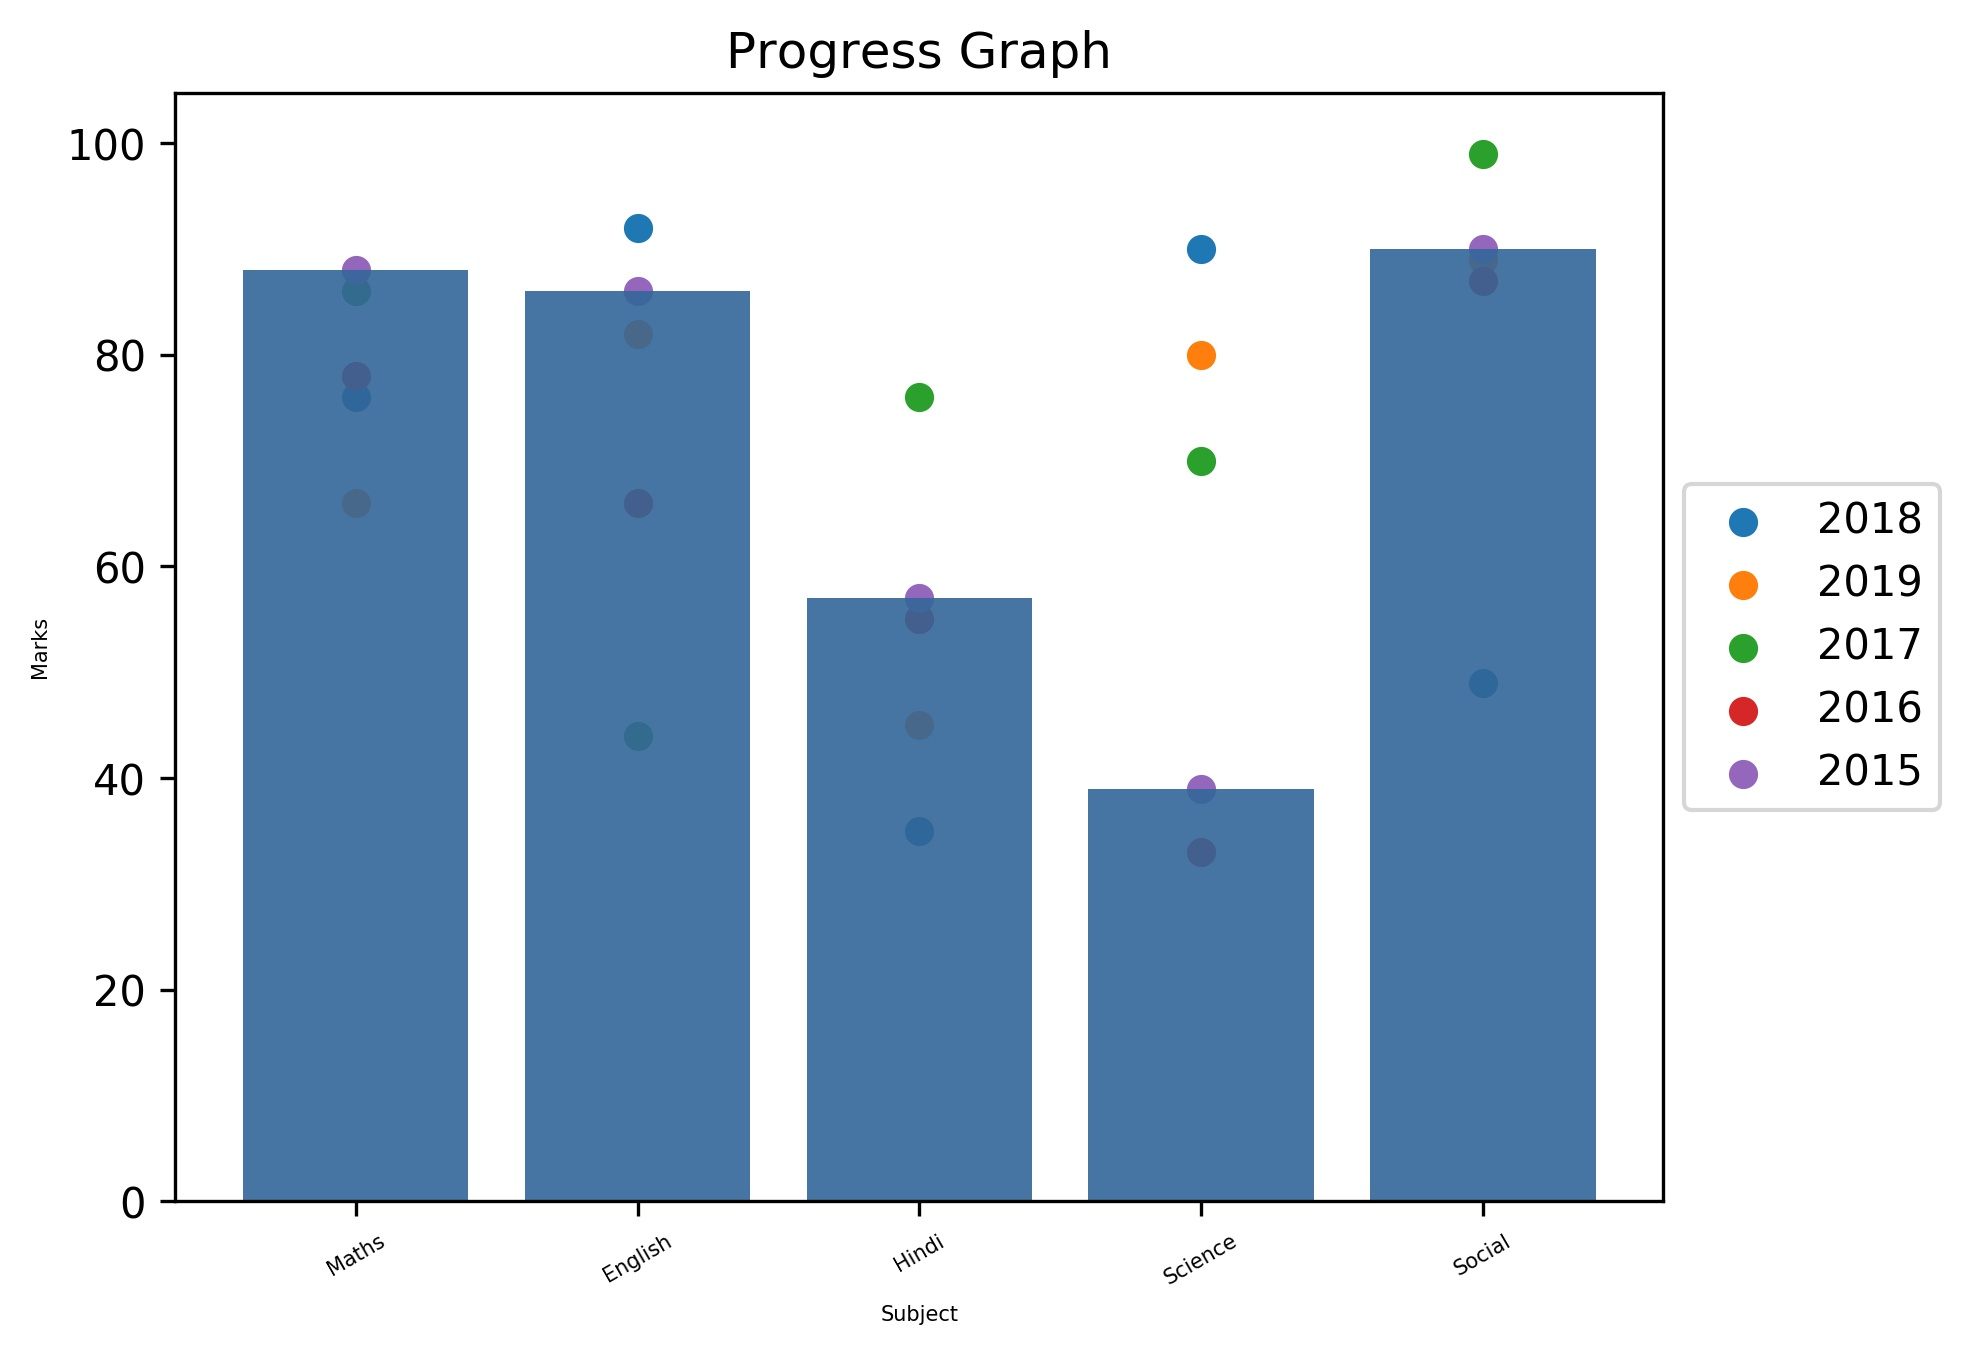
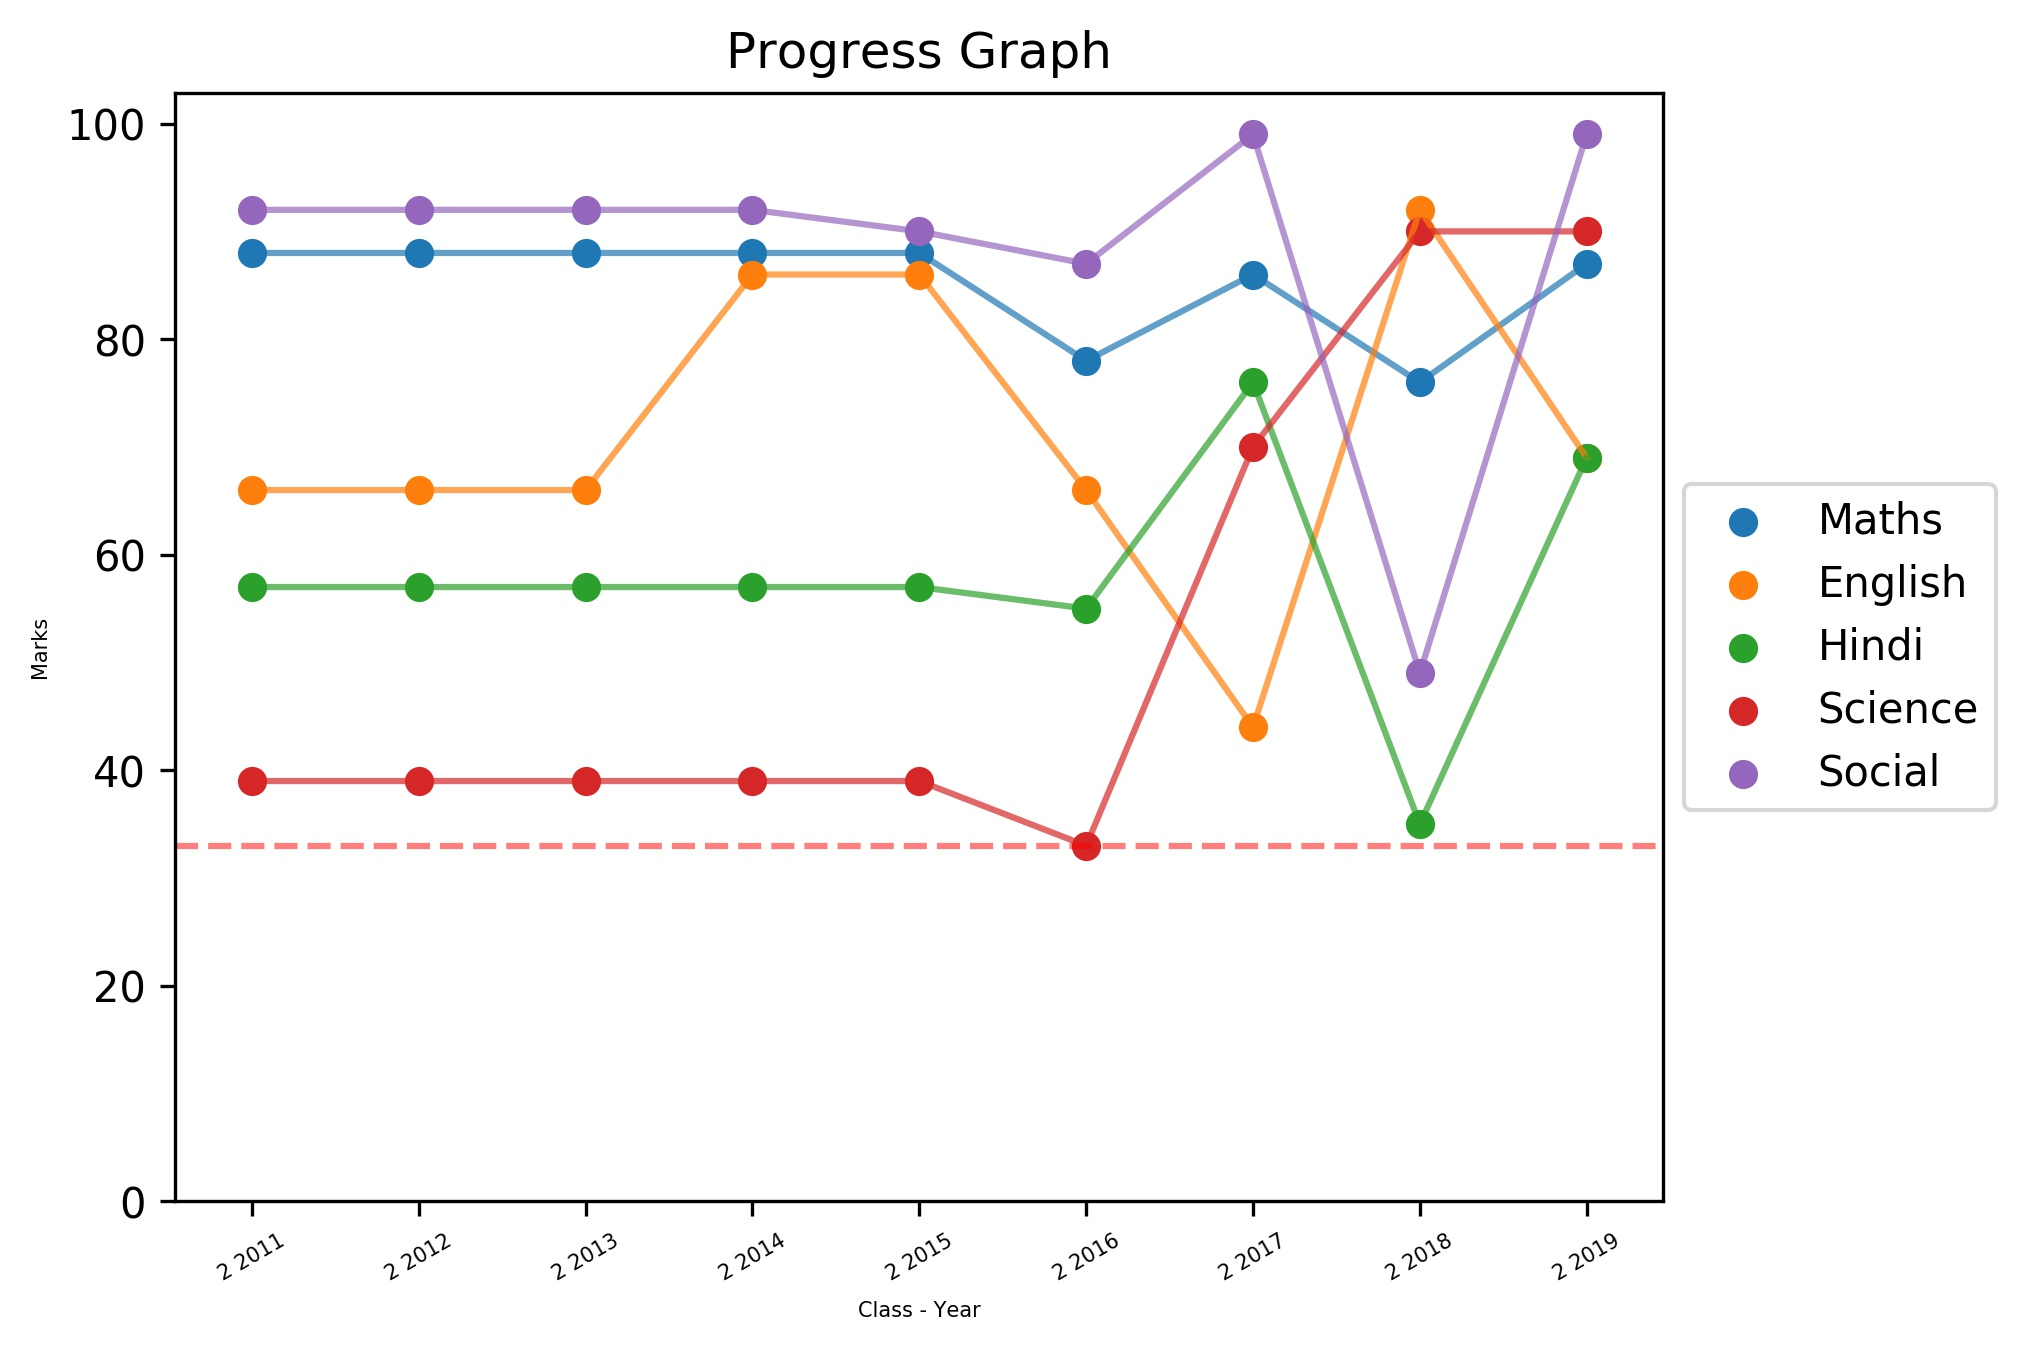
Improvement in graphs as a time series

diff --git a/database/views.py b/database/views.py
@@ -312,22 +312,25 @@ class ReportCardApi(APIView):
                     plt1 = yearlyGraph(marks)
                     
                     plt1.savefig('media/'+str(params['student_id'])+str(params['year'])+'.jpg',transparent = True,dpi = 300) 
-                    
+                    plt1.clf()
                     #progress Graph saving
-                    reportCard1 = ReportCard.objects.filter(student = student)
-                    
-                    data = []
+                    reportCard1 = ReportCard.objects.filter(student = student).order_by('year')
+                    data = [[],[],[],[],[]]
                     year = []
+                    print('here2')
                     for i in reportCard1:
-                        year.append(i.year)
-                        temp = []
-                        temp.extend([i.marks_in_maths,i.marks_in_english,i.marks_in_hindi,i.marks_in_science,i.marks_in_social])
-                        data.append(temp)
+                        year.append(str(i.student.standard) + ' ' + str(i.year))
+                        data[0].append(i.marks_in_maths)
+                        data[1].append(i.marks_in_english)
+                        data[2].append(i.marks_in_hindi)
+                        data[3].append(i.marks_in_science)
+                        data[4].append(i.marks_in_social)
+                    
                     plt2, art = progressGraph(data,year)
                     print('bf')
                     plt2.savefig('media/'+str(params['student_id'])+'.jpg',transparent = True,dpi = 300,additional_artists=art,
         bbox_inches="tight") 
-                    print('here')
+                    
                     response_data = reportCard.json()
                     return HttpResponse(json.dumps(response_data), content_type="application/json")
                 
@@ -370,17 +373,22 @@ class ReportCardApi(APIView):
                 marks = [reportCard.marks_in_maths, reportCard.marks_in_english, reportCard.marks_in_hindi, reportCard.marks_in_science, reportCard.marks_in_social]
                 plt1 = yearlyGraph(marks)
                 plt1.savefig('media/'+student_id+year+'.jpg',transparent = True,dpi = 300)
-
+                plt.clf()
                 #progress Graph saving
                 reportCard1 = ReportCard.objects.filter(student = student)
-            
-                data = []
+                
+                data = [[],[],[],[],[]]
                 year = []
+
                 for i in reportCard1:
-                    year.append(i.year)
-                    temp = []
-                    temp.extend([i.marks_in_maths,i.marks_in_english,i.marks_in_hindi,i.marks_in_science,i.marks_in_social])
-                    data.append(temp)
+                    year.append(i.student.standard + ' ' + i.year)
+                    data[0].append(i.marks_in_maths)
+                    data[1].append(i.marks_in_english)
+                    data[2].append(i.marks_in_hindi)
+                    data[3].append(i.marks_in_science)
+                    data[4].append(i.marks_in_social)
+
+                
                 plt2, art = progressGraph(data,year)
                 
                 plt2.savefig('media/'+str(params['student_id'])+'.jpg',transparent = True,dpi = 300,additional_artists=art,

diff --git a/database/graphs.py b/database/graphs.py
@@ -15,15 +15,35 @@ def yearlyGraph(marks):
 def progressGraph(marks, year):
     
     subject = ['Maths','English', 'Hindi', 'Science','Social']
-    index = np.arange(len(subject))
+    index = np.arange(len(year))
     
     for no,i in enumerate(marks):
-        plt.scatter(index,i, label = year[no])
-    plt.xlabel('Subject', fontsize= 5)
+        plt.scatter(index,i, label = subject[no])
+        plt.plot(index,i,alpha = 0.7)
+    plt.axhline(y = 33,linestyle = '--',color = 'r', alpha = 0.5)
+    plt.ylim(ymin=0)
+    
+    plt.xlabel('Class - Year', fontsize= 5)
     plt.ylabel('Marks', fontsize = 5)
-    plt.xticks(index, subject, fontsize = 5, rotation = 30)
+    plt.xticks(index, year, fontsize = 5, rotation = 30)
     plt.title('Progress Graph')
     lgd = plt.legend(loc='center left', bbox_to_anchor=(1.0, 0.5))
     art = []
     art.append(lgd)
     return plt,art
+
+# def progressGraph(marks, year):
+    
+#     subject = ['Maths','English', 'Hindi', 'Science','Social']
+#     index = np.arange(len(subject))
+    
+#     for no,i in enumerate(marks):
+#         plt.scatter(index,i, label = year[no])
+#     plt.xlabel('Subject', fontsize= 5)
+#     plt.ylabel('Marks', fontsize = 5)
+#     plt.xticks(index, subject, fontsize = 5, rotation = 30)
+#     plt.title('Progress Graph')
+#     lgd = plt.legend(loc='center left', bbox_to_anchor=(1.0, 0.5))
+#     art = []
+#     art.append(lgd)
+#     return plt,art

diff --git a/database/models.py b/database/models.py
@@ -156,6 +156,7 @@ class ReportCard(models.Model):
         response_data = {}
         response_data['student'] = str(self.student)
         response_data['year'] = self.year
+        response_data['standard'] = str(self.student.standard)
         response_data['remarks'] = self.remarks
         response_data['maths'] = self.marks_in_maths
         response_data['english'] = self.marks_in_english
